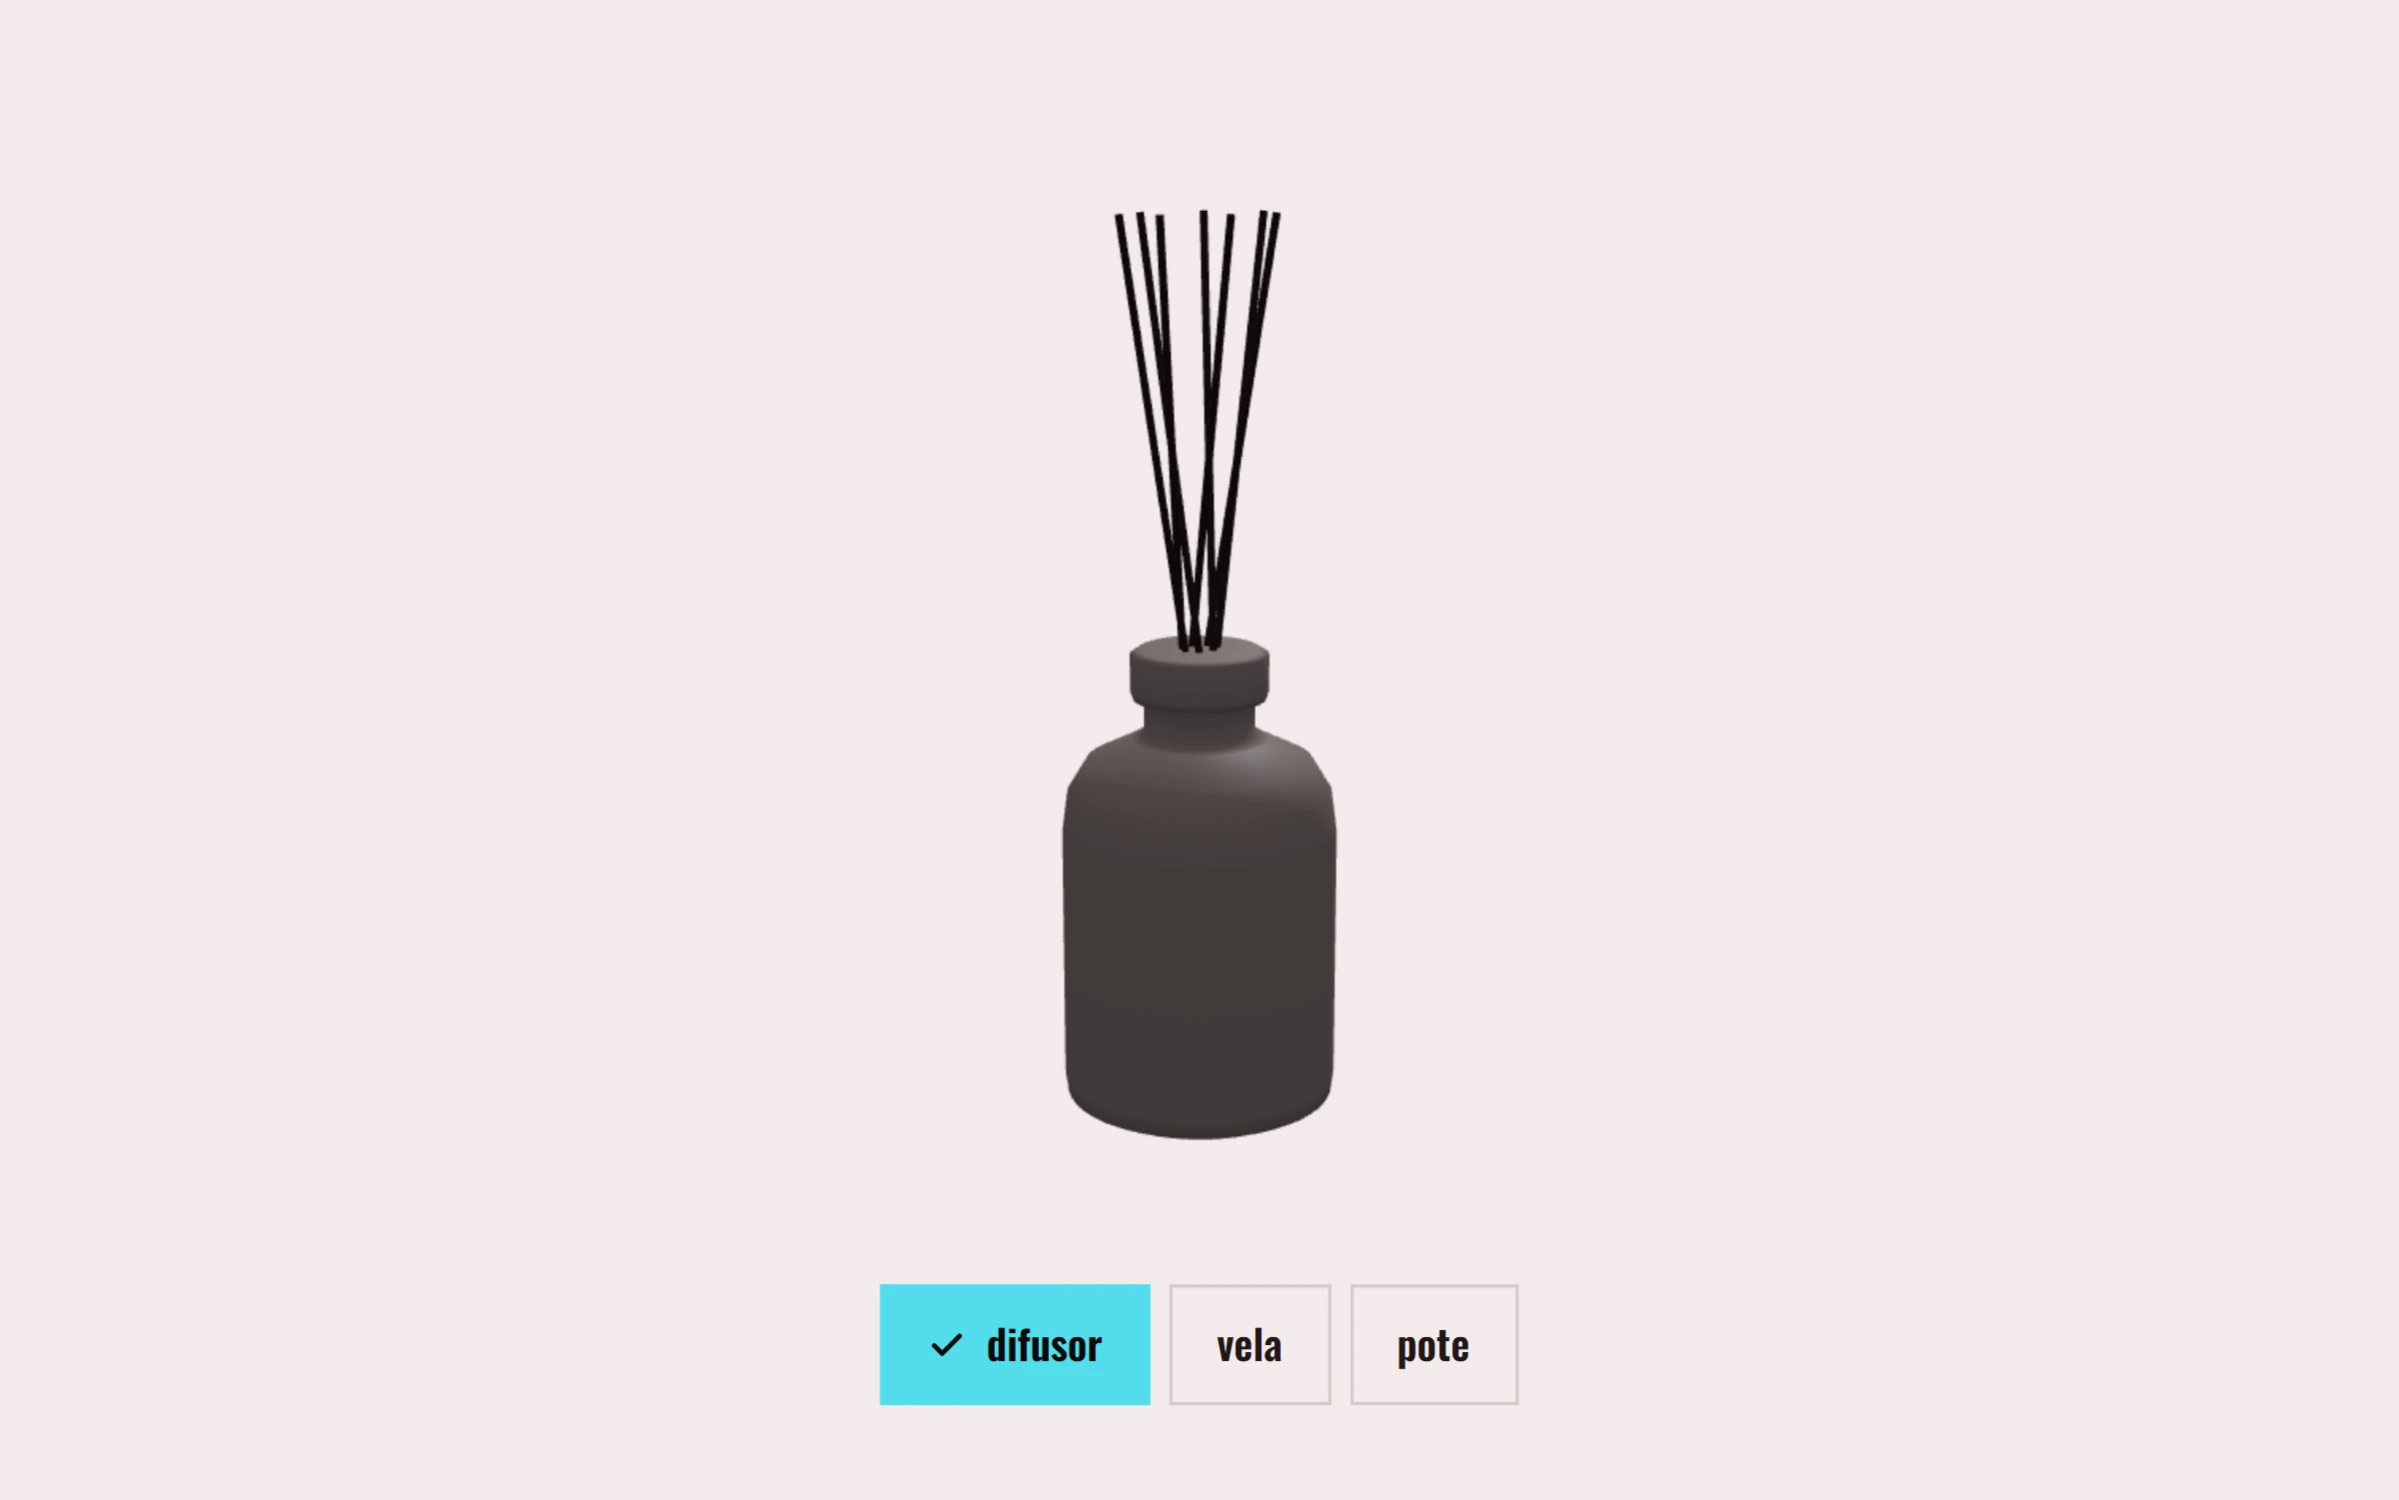
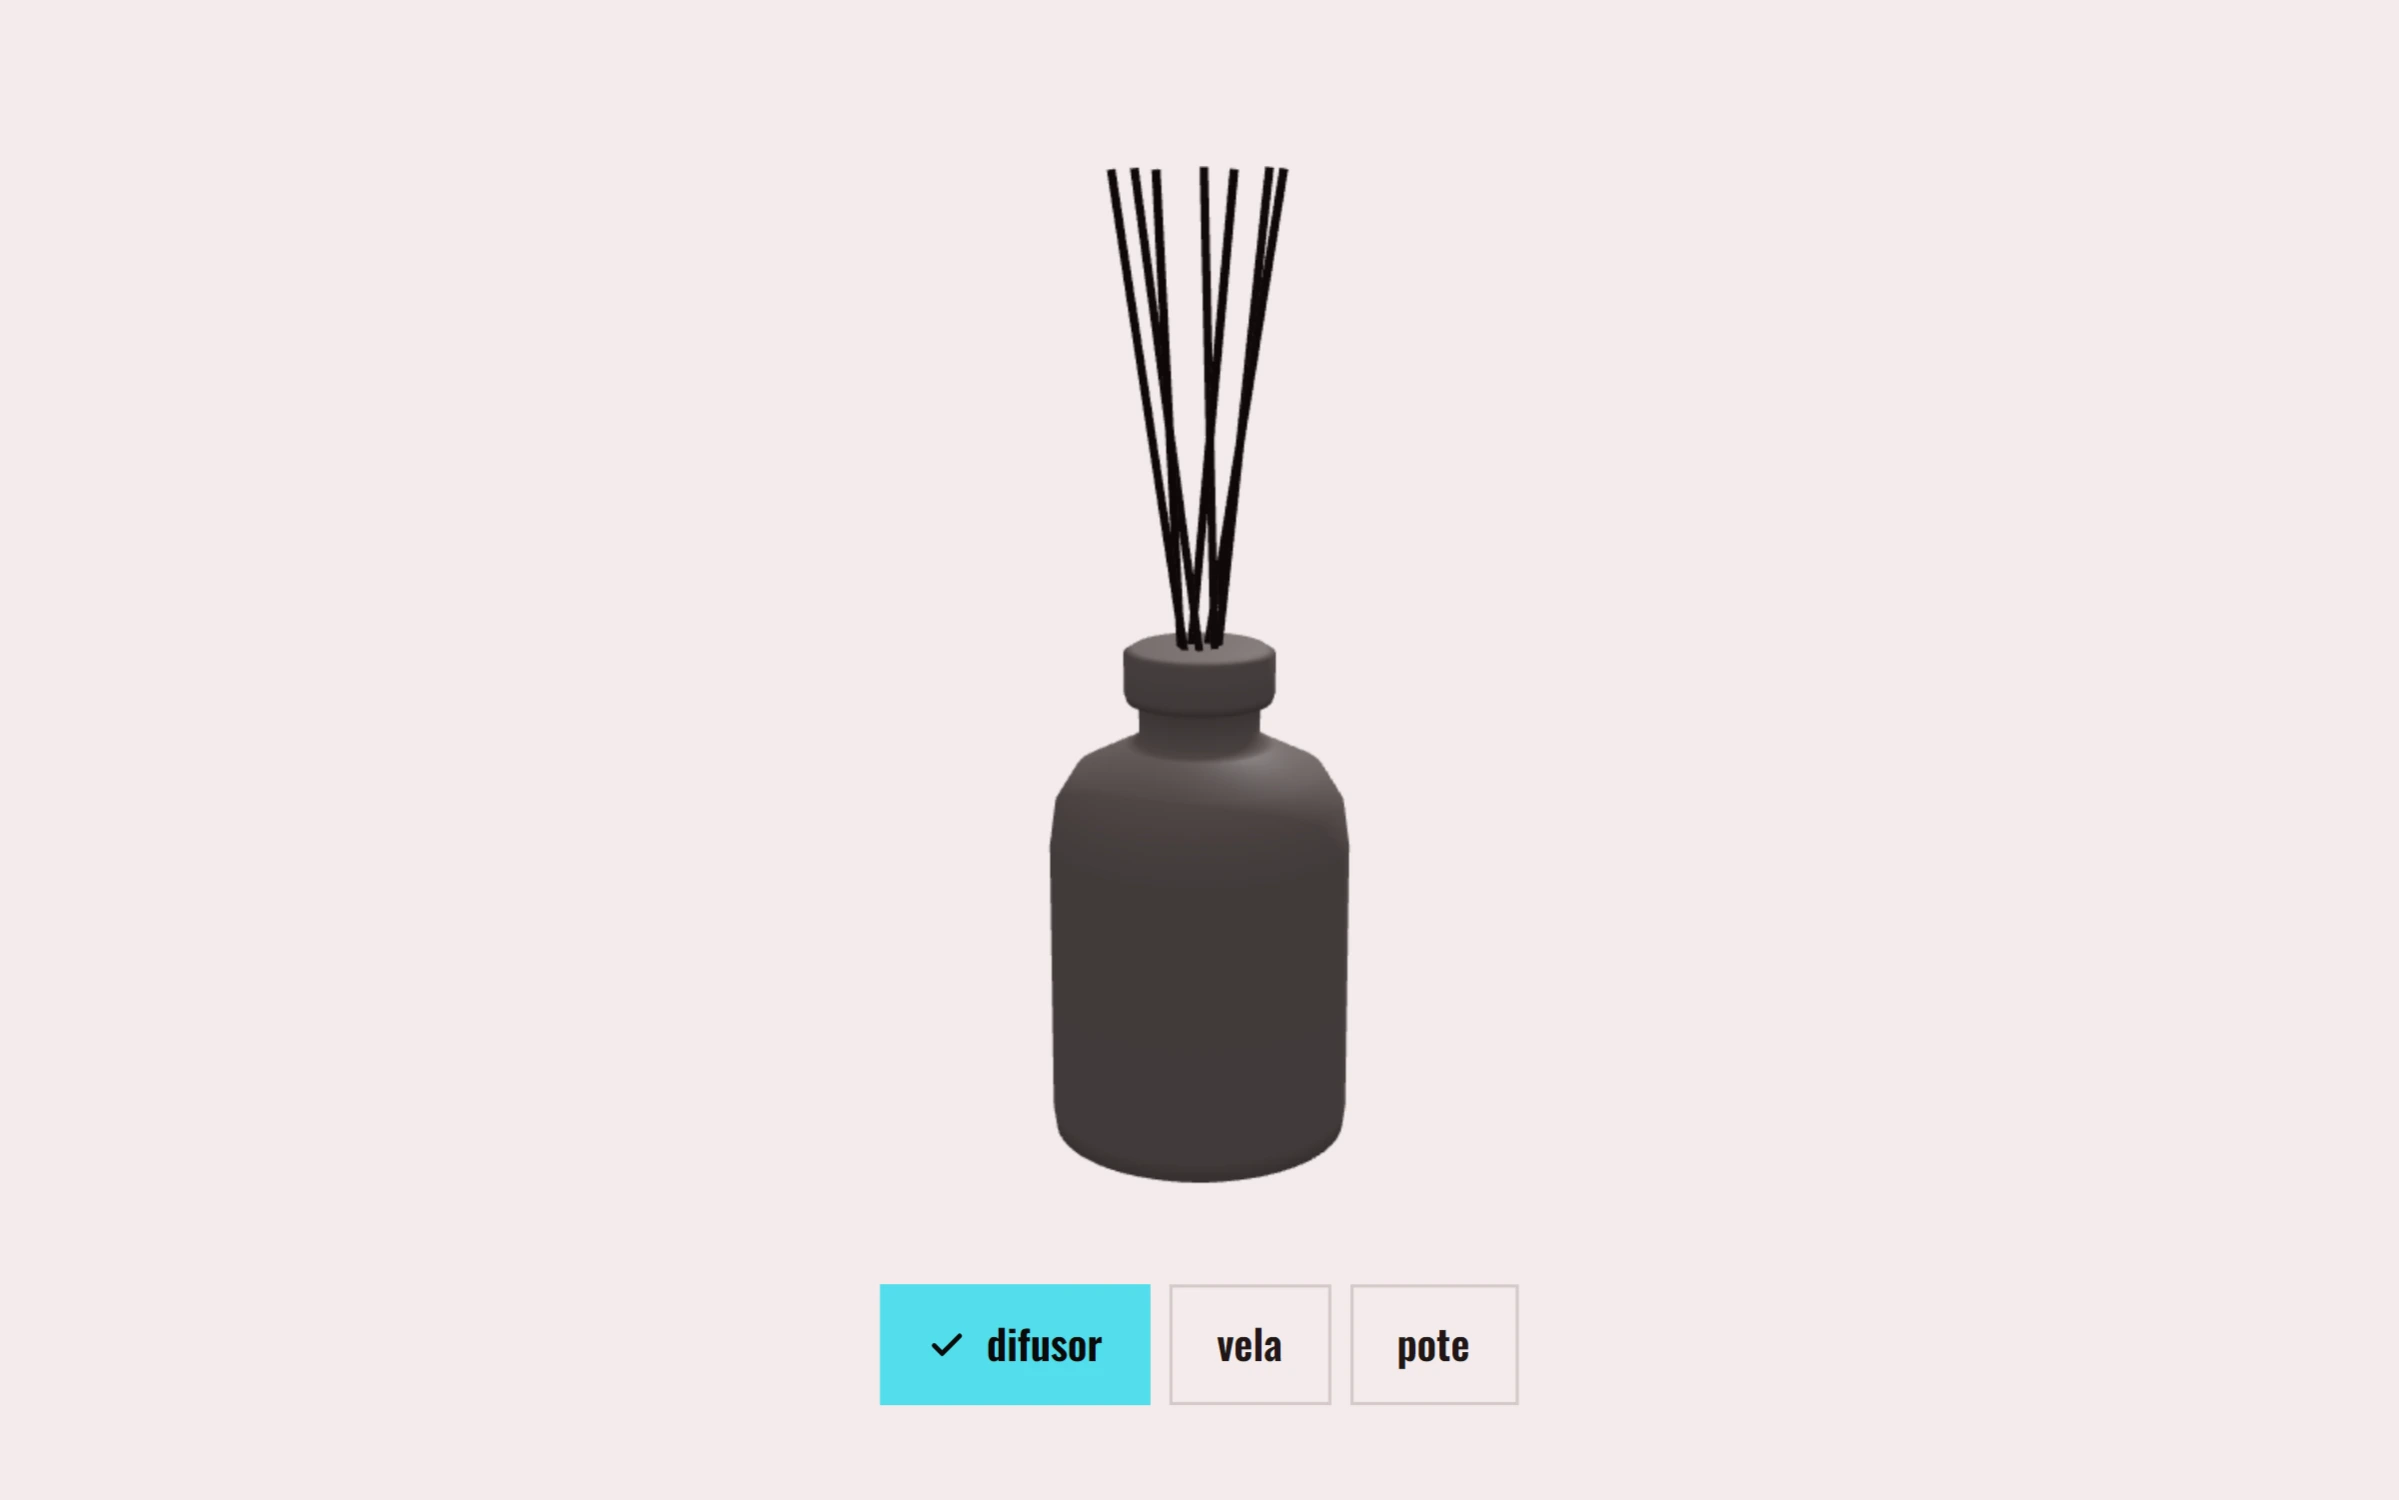
fix(lathe-object): enquadra pela esfera envolvente (cabe em qualquer ângulo e perfil)

diff --git a/registry/visant/ui/lathe-object.tsx b/registry/visant/ui/lathe-object.tsx
@@ -182,18 +182,16 @@ async function criarCena(
     const h = canvas.clientHeight || 1;
     renderer.setSize(w, h, false);
     camera.aspect = w / h;
-    // Distância que faz caber a altura OU a largura (a que apertar mais), com
-    // um respiro curto: a peça é o assunto, e o original ocupava o quadro quase
-    // inteiro. Somar meio raio compensa a face da frente, que fica mais perto
-    // da câmera que o eixo. Levemente de cima, como no original (3.2 / 13.5).
-    const meiaVert = Math.tan(THREE.MathUtils.degToRad(camera.fov / 2));
-    const raio = Math.max(tamanho.x, tamanho.z) / 2;
-    // Folga de 20%, não 4%: a caixa é medida parada, mas a câmera vem de cima, as
-    // varetas balançam e o arrasto inclina até ±0.12π. Com 4% as pontas das
-    // varetas saíam cortadas no topo do canvas (visto em tamanho real na vitrine).
-    // Um raio inteiro (era meio): em peça larga (vela, pote) a borda frontal de
-    // baixo fica perto da câmera e crescia até encostar no pé do canvas.
-    const dist = Math.max(tamanho.y / 2 / meiaVert, raio / (meiaVert * camera.aspect)) * 1.2 + raio;
+    // Enquadra a ESFERA que envolve a peça, não a caixa vista de frente: a
+    // distância r / sen(meio campo) faz caber em qualquer ângulo da órbita e em
+    // qualquer perfil. As tentativas com folga fixa (4%, 20%, meio raio, um raio)
+    // sempre deixavam um caso encostando: vareta no topo, pote no pé, porque a
+    // câmera vem de cima e a borda da frente cresce na projeção. Visto em
+    // tamanho real na vitrine. O 1.04 final é só respiro.
+    const meiaVert = THREE.MathUtils.degToRad(camera.fov / 2);
+    const meiaHoriz = Math.atan(Math.tan(meiaVert) * camera.aspect);
+    const esfera = tamanho.length() / 2;
+    const dist = (esfera / Math.sin(Math.min(meiaVert, meiaHoriz))) * 1.04;
     const dir = new THREE.Vector3(0, 0.237, 1).normalize();
     camera.position.copy(dir.multiplyScalar(dist));
     camera.updateProjectionMatrix();
